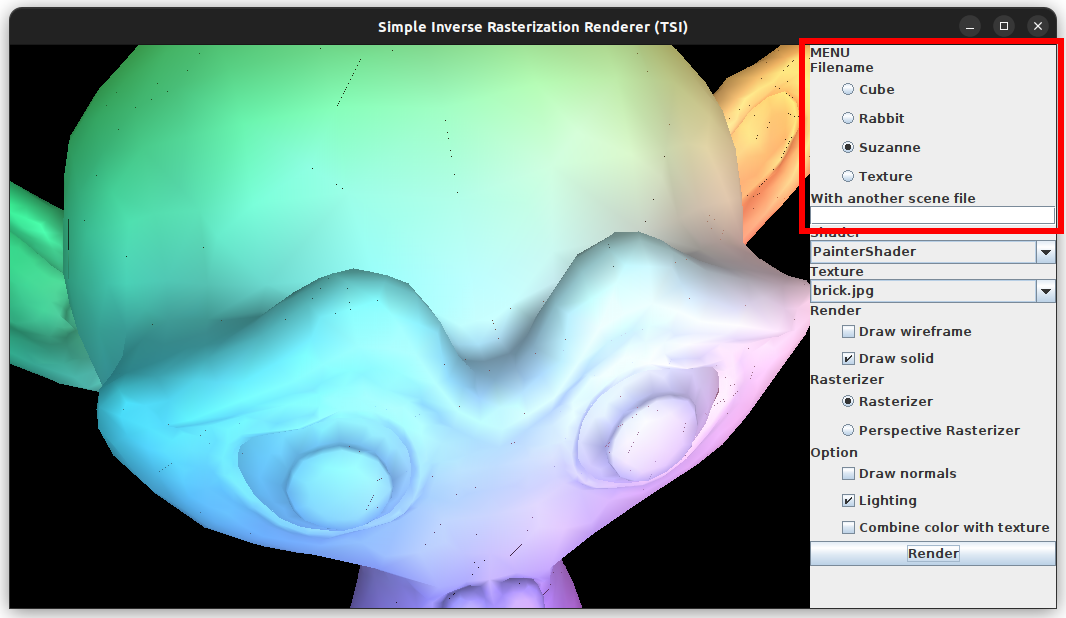
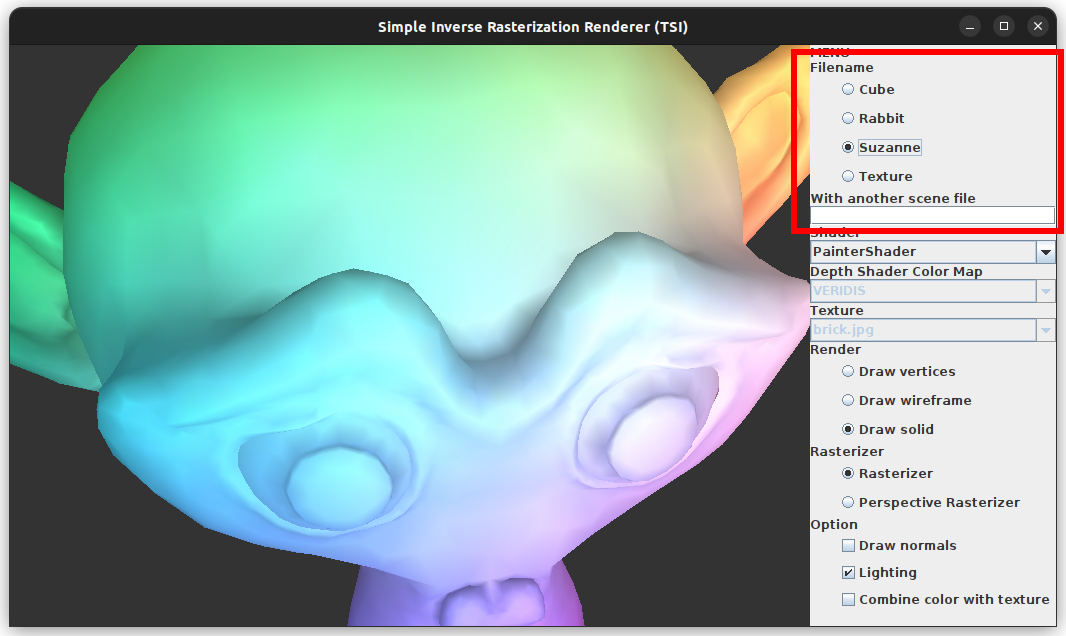
fix: face rendering + update README

diff --git a/src/renderer/core/rasterizer/Rasterizer.java b/src/renderer/core/rasterizer/Rasterizer.java
@@ -93,9 +93,9 @@ public class Rasterizer {
         f.setPosition(f.getY(), f.getX());
     }
 
-
     /**
      * Rasterizes a vertex on the screen.
+     * 
      * @param v the fragment drawn
      */
     public void rasterizeVertex(final Fragment v) {
@@ -116,14 +116,15 @@ public class Rasterizer {
             }
         }
     }
+
     /**
      * Rasterizes the edge between the projected vectors v1 and v2.
      * Generates Fragment's and calls the Shader::shade() method on each of them.
      * The Fragment's are generated by linearly interpolating the attributes of v1
      * and v2.
      *
-     * @param v1     the first vertex of the edge
-     * @param v2     the second vertex of the edge
+     * @param v1 the first vertex of the edge
+     * @param v2 the second vertex of the edge
      */
     public void rasterizeEdge(Fragment v1, Fragment v2) {
         // This is basically Bresenham's algorithm
@@ -131,8 +132,6 @@ public class Rasterizer {
         int y1 = v1.getY();
         int x2 = v2.getX();
         int y2 = v2.getY();
-
-        
 
         // Uncomment the following block of code for drawing the wireframe
         // int numAttributes = v1.getNumAttributes ();
@@ -265,7 +264,7 @@ public class Rasterizer {
         final int ymin = Math.min(v1.getY(), Math.min(v2.getY(), v3.getY()));
         final int xmax = Math.max(v1.getX(), Math.max(v2.getX(), v3.getX()));
         final int ymax = Math.max(v1.getY(), Math.max(v2.getY(), v3.getY()));
-        
+
         final double EPSILON = (new Vector(ymax - ymin, xmax - xmin)).norm() / 1e6;
         // final double EPSILON = 1/10;
         final Fragment fragment = new Fragment(0, 0);
@@ -280,13 +279,20 @@ public class Rasterizer {
 
                     final Vector v = new Vector(1.0, (double) x, (double) y);
                     final Vector bar = cMat.multiply(v);
-                    if ((bar.get(0) >= - EPSILON)
-                            && (bar.get(1) >= - EPSILON)
-                            && (bar.get(2) >= - EPSILON)) {
+                    if ((bar.get(0) >= -EPSILON)
+                            && (bar.get(1) >= -EPSILON)
+                            && (bar.get(2) >= -EPSILON)) {
                         for (int i = 0; i < numAttributes; i++) {
-                            fragment.setAttribute(i, bar.get(0) * v1.getAttribute(i)
-                                    + bar.get(1) * v2.getAttribute(i)
-                                    + bar.get(2) * v3.getAttribute(i));
+                            if (1 <= i && i <= 3) {
+                                // color between 0 and 1;
+                                fragment.setAttribute(i, Math.clamp(bar.get(0) * v1.getAttribute(i)
+                                        + bar.get(1) * v2.getAttribute(i)
+                                        + bar.get(2) * v3.getAttribute(i), 0., 1.));
+                            } else {
+                                fragment.setAttribute(i, bar.get(0) * v1.getAttribute(i)
+                                        + bar.get(1) * v2.getAttribute(i)
+                                        + bar.get(2) * v3.getAttribute(i));
+                            }
                         }
                         shader.shade(fragment);
                     }

diff --git a/README.md b/README.md
@@ -23,6 +23,14 @@ You can choose differents shader to render the model in the shader menu.
 
 ![ShaderMenu](./data/screenshots/Shader_menu.png)
 
+Selecting The DepthShader enabled the DepthShaderColorMap selection to switch the color map used to render the model with a depthShader.
+
+![DepthColorMap](./data/screenshots/ShaderColorMap_menu.png)
+
+Selecting the TextureShader enabled the Texture menu to switch the menu availabled in the `data` folder when starting the application.
+
+![TextureMenu](./data/screenshots/Shader_Texture_menu.png)
+
 ### Render
 
 You can choose what you want the GUI to render in the render menu.
@@ -42,9 +50,6 @@ option menu.
 
 ![OptionMenu](./data/screenshots/Option_menu.png)
 
-### Render Button
-
-It will update the view panel. Normally this button is useless. The view panel auto update when changing parameters.
 
 ## MakeFile
 
@@ -112,7 +117,7 @@ You can compile the project using Ant version 1.10.14 and later
 ([download here](https://dlcdn.apache.org//ant/binaries/apache-ant-1.10.15-bin.tar.gz)).
 
 You can also install ant package as any other package by the command on your
-personal computer:
+**personal computer**:
 
 ```bash
 sudo snap install ant --stable --classic
